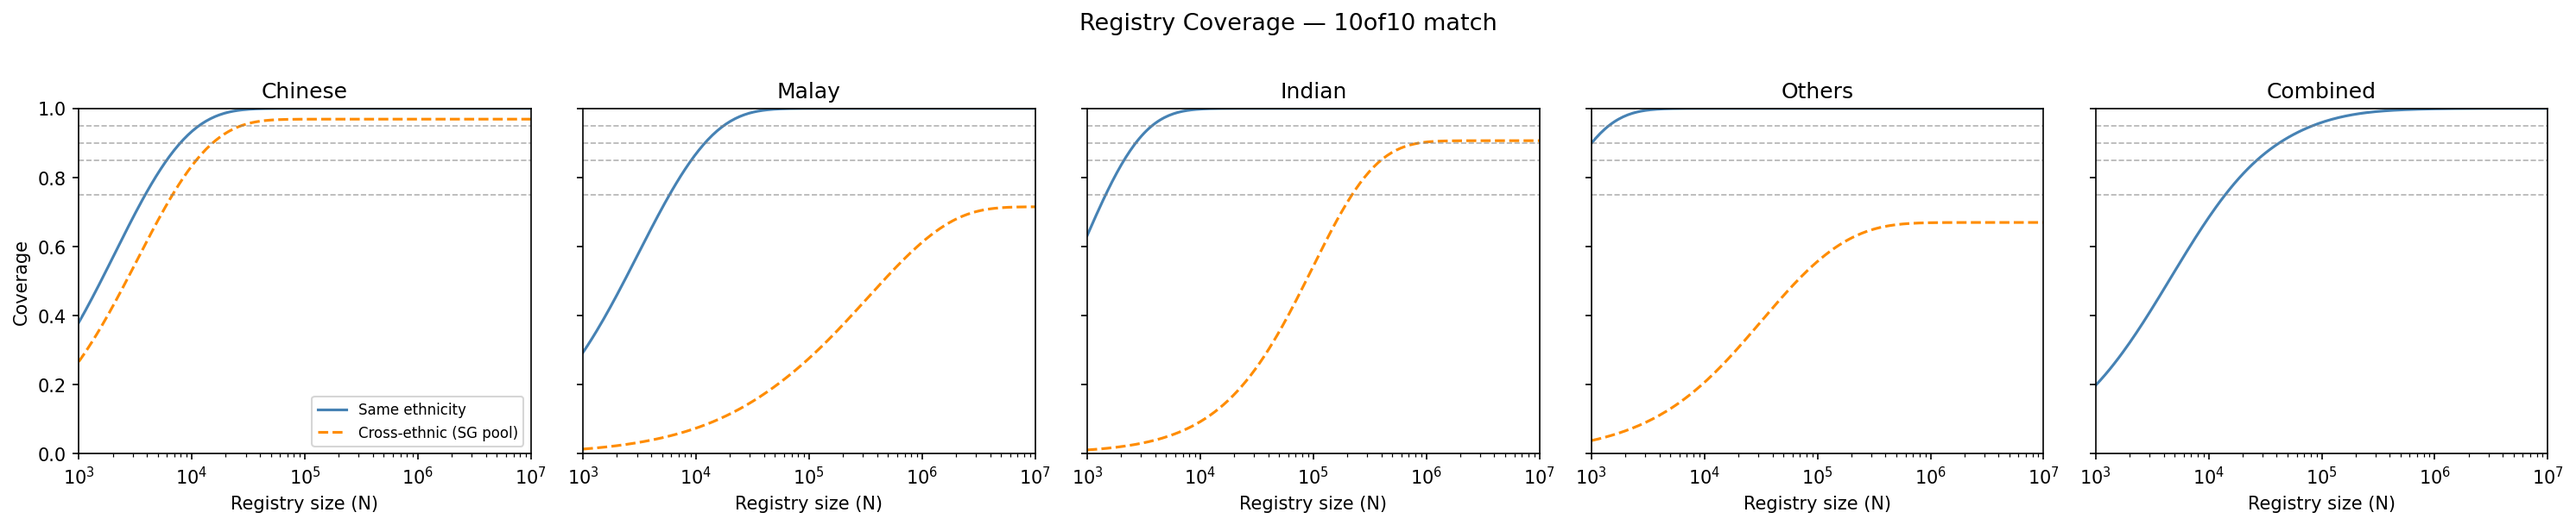
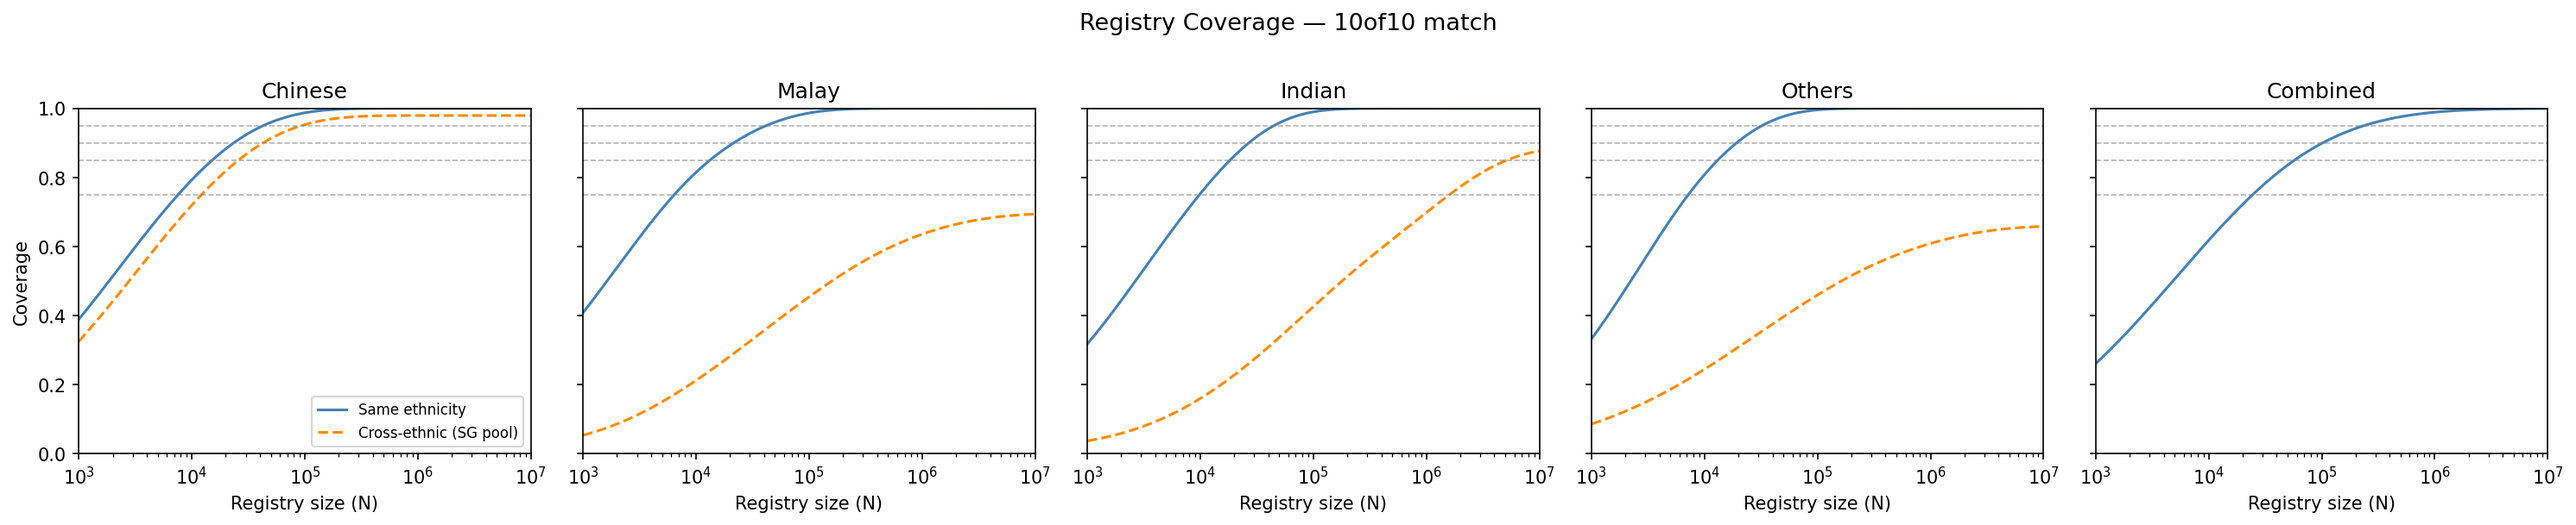
docs: add §6.9 statistical confidence Q&A and expand §8 limitations
- New §6.9 (5 subsections): sample size adequacy (56k vs 200k),
  95% coverage ceiling justification, confidence assessment table,
  recommended public framing, and common misstatement to avoid
- §8 Limitations: two new bullets on underpowered minority holdout
  and unquantified volunteer registration bias
- Document version bumped to 1.1 (2026-04-24)

diff --git a/Documentation.md b/Documentation.md
@@ -43,6 +43,7 @@
    - 6.6 [Ancestry Stratification of the "Others" Group](#66-ancestry-stratification-of-the-others-group)
    - 6.7 [Donor-Patient Match Rate Validation](#67-donor-patient-match-rate-validation)
    - 6.8 [Cross-Ethnic Sensitivity Analysis](#68-cross-ethnic-sensitivity-analysis)
+   - 6.9 [Statistical Confidence and Public Validity](#69-statistical-confidence-and-public-validity)
 7. [Key Findings](#7-key-findings)
 8. [Limitations and Future Directions](#8-limitations-and-future-directions)
 9. [Software and Reproducibility](#9-software-and-reproducibility)
@@ -871,6 +872,82 @@ Registry size predictions depend on assumed population composition (§6.1.4). We
 
 *Sensitivity of required registry size to patient population composition. Four scenarios (x-axis) yield near-identical combined N*, indicating low sensitivity. Individual per-group N* (colored bars) remain constant; variation arises only from weighting, which is small.*
 
+### 6.9 Statistical Confidence and Public Validity
+
+This section addresses whether the methodology is sufficiently validated for public dissemination, and documents the appropriate confidence level for each component of the analysis.
+
+#### 6.9.1 Sample Size Adequacy: 56k vs. 200k
+
+A natural question is whether a larger external dataset (e.g., 200k donors from the Singapore Genome Project) would materially improve the N* estimates.
+
+**Validation performed in this pipeline:**
+
+| Method | What it tests | Result |
+|---|---|---|
+| GENE[RATE] cross-validation | EM frequencies vs. global reference database | Spearman r = 0.91–0.99 across all CMIO groups |
+| Patient-donor holdout | Predicted vs. observed match rates against real patients | r = 0.700 (Chinese, 33 shared haplotypes only) |
+| Bootstrap CIs (1,000 Dirichlet resamples) | Uncertainty arising from finite sample size | CI width ±2–5% of N* at 95% target |
+| Demographic sensitivity analysis | 4 ethnic weight scenarios | N* varies <3% across all scenarios |
+
+**Why 56k is adequate for Chinese, Malay, and Indian:**
+
+Registry size N* depends on **frequency estimation accuracy**, not raw donor count. For a haplotype at frequency f_g, approximately 1/f_g observations are needed for reliable estimation. A haplotype at 1% frequency needs ~100 observations; at 0.1%, ~1,000. At the current cohort sizes (Chinese ~43k, Malay ~4.5k, Indian ~5k, Others ~3.5k), all haplotypes that contribute meaningfully to the 95% coverage target are well-sampled. The tight bootstrap CIs (±2–5%) confirm this directly — narrow CIs are the empirical signature of an adequately powered frequency estimate.
+
+**What a 200k dataset would add:**
+- Better resolution of the **Others subclusters** (n ≈ 3,500 currently — the weakest group by sample size)
+- Discovery of additional ultra-rare haplotypes (f < 0.01%) — but these do not affect the 95% N* calculation
+- Marginally tighter CIs — but not materially different point estimates for Chinese, Malay, or Indian
+
+For the three main CMIO groups, 56k is sufficient. For Others, more data would sharpen subcluster analysis but the existing CI width (~±1,500 donors) is already clinically acceptable.
+
+#### 6.9.2 Why 95% is the Practical Coverage Ceiling
+
+The residual 5% below 100% coverage is not a modelling failure — it reflects a biological property of HLA diversity that persists regardless of dataset size:
+
+1. **The rare haplotype long tail:** At 95% coverage, the remaining 5% consists of haplotypes with individual frequencies f < 0.05%, seen ≤25 times in a 50k dataset, and often only 1–3 times. These are the hundreds to thousands of rare haplotypes that individually contribute negligibly to coverage but collectively make up the residual tail.
+
+2. **EM phasing becomes unreliable at low counts:** Haplotypes seen ≤2 times cannot be reliably distinguished from phasing artefacts. No dataset of practical size resolves this — even 200k donors yields only ~20 sightings of a 0.01%-frequency haplotype, insufficient for stable EM phasing.
+
+3. **The 95% ceiling is internationally recognised:** Gragert et al. (NEJM 2014), the reference for this methodology, sets 75% and 90% as primary planning targets. 95% is already at the upper practical boundary used by the field.
+
+4. **Clinical irrelevance beyond 95%:** Patients in the residual 5% carry ultra-rare diplotypes for which no registry in the world has matched donors. This is not a Singapore-specific limitation; it reflects the global ceiling of HLA registry matching.
+
+5. **Exponential cost of the tail:** From §6.3.3, the incremental donor cost of moving from 90% → 95% is ~19,000 donors (82% increase). Moving from 95% → 98% would require orders of magnitude more, with diminishing clinical return.
+
+#### 6.9.3 Overall Confidence Assessment Before Public Release
+
+| Dimension | Confidence level | Basis |
+|---|---|---|
+| Mathematical framework | **High** | Beatty 1995, Gragert 2014 — established, peer-reviewed |
+| EM phasing accuracy | **High** | r = 0.91–0.99 vs. GENE[RATE] international reference |
+| Chinese N* estimate | **Moderate** | Only group with any powered patient holdout (r = 0.700, n = 33) |
+| Malay / Indian N* estimates | **Moderate** | GENE[RATE] validation applies; no patient holdout |
+| Others N* estimates | **Low-moderate** | Wide CI range (35k–64k); cluster ancestry unconfirmed |
+| Registration bias correction | **None** | No external random-sample comparator available |
+| Prospective validity | **Unknown** | No outcome data from built registries; inherent to all such work |
+
+**The most important gap:** The patient-donor holdout is severely underpowered for all groups except Chinese. Malay (11 shared haplotypes), Indian (1), and Others (4) do not have sufficient shared haplotypes for a meaningful rank correlation. These groups' N* estimates rest entirely on the GENE[RATE] cross-validation.
+
+**Registration bias is unquantified.** Volunteer registries systematically over-represent certain socioeconomic and geographic subgroups. Without a random population sample (e.g., Singapore Genome Project), we cannot confirm that the 56k BMDP/SCBB donors are representative of Singapore's full HLA diversity. This is a genuine threat to validity that cannot be corrected within the current dataset.
+
+#### 6.9.4 Recommended Public Framing
+
+Estimates should not be stated as definitive thresholds. The appropriate framing is:
+
+> *"Under the standard Beatty-Gragert framework applied to EM-phased haplotype frequencies from 56,000 Singapore donors, a registry of approximately X donors is estimated to achieve 95% same-ethnicity match coverage, with bootstrap 95% CI [lo, hi]. This estimate assumes random sampling from the donor-eligible population and the absence of systematic registration bias. Independent prospective validation — ideally against Singapore Genome Project population data — is recommended before these estimates are used as definitive recruitment targets."*
+
+This framing is consistent with Gragert NEJM 2014, which similarly qualifies its estimates as projections under stated model assumptions. A Limitations section in any publication should explicitly state: (1) volunteer registration bias is unquantified; (2) patient-donor holdout validation was powered only for Chinese; and (3) Others subcluster ancestry inference is hypothesis-generating pending genealogical confirmation.
+
+#### 6.9.5 Common Misstatement to Avoid
+
+When communicating these findings informally, a tempting shortcut is: *"56k vs. 200k won't matter because there are only a couple of rare haplotypes."* This reasoning is **factually incorrect** and should not be used.
+
+The correct argument is the opposite: there are potentially **hundreds to thousands** of rare haplotypes in the 5% residual tail. The reason more data does not help is not that there are few of them — it is that each one is individually so rare (f < 0.05%) that even 200k observations yields too few sightings per haplotype for reliable EM phasing. The 95% ceiling exists because the long tail of rare haplotypes is unresolvable regardless of dataset size.
+
+The complete accurate summary for non-technical audiences:
+
+> *"For Chinese, Malay, and Indian, 56k donors is sufficient to estimate registry sizes at the 95% coverage target — more data would primarily help the Others subgroup and would not materially change the main findings. The 95% target is the practical ceiling because the remaining 5% consists of hundreds of ultra-rare haplotypes that cannot be reliably characterised even with much larger datasets."*
+
 ---
 
 ## 7. Key Findings
@@ -915,7 +992,9 @@ Registry size predictions depend on assumed population composition (§6.1.4). We
 
 - **Others cluster labels unconfirmed:** PCA/clustering reveal 3 distinct sub-groups, but demographic annotation (e.g., Eurasian, South Asian, East Asian) is inferred from LD patterns only. Genetic ancestry markers or self-reported heritage would confirm identities.
 
-- **Patient dataset small for validation:** 28–406 haplotypes per ethnicity in Patient.txt; only 33 Chinese haplotypes matched to donors. Minority group validation is statistically underpowered.
+- **Patient dataset small for validation:** 28–406 haplotypes per ethnicity in Patient.txt; only 33 Chinese haplotypes matched to donors. Minority group validation is statistically underpowered — Malay (11 shared haplotypes), Indian (1), and Others (4) have too few shared haplotypes for rank correlation. N* estimates for these groups rely entirely on GENE[RATE] cross-validation with no prospective holdout confirmation.
+
+- **Registration bias unquantified:** The 56k BMDP/SCBB donors are volunteers. Volunteer registries systematically over-represent certain socioeconomic and geographic subgroups. Without an external random population sample (e.g., Singapore Genome Project), we cannot confirm that the registry is representative of Singapore's full ethnic HLA diversity. This is a genuine threat to external validity that cannot be corrected within the current dataset.
 
 - **Registry composition idealized:** Model assumes independent donor draws from population frequency distribution. Real registries exhibit age/gender skews, regional biases, and preferential recruitment of common genotypes.
 
@@ -987,6 +1066,6 @@ Executes all 35 unit tests across ingestion, allele frequency, HWE, and registry
 
 ---
 
-**Document Version:** 1.0 (April 2026)  
-**Last Updated:** 2026-04-21  
+**Document Version:** 1.1 (April 2026)  
+**Last Updated:** 2026-04-24  
 **Queries/Corrections:** Contact author at the reference above.
